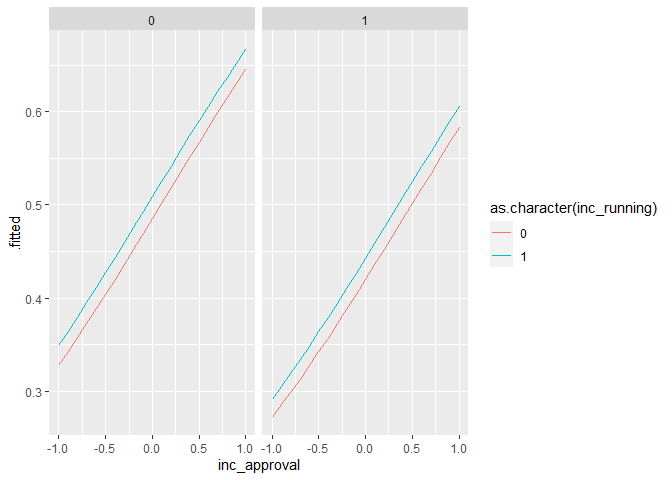
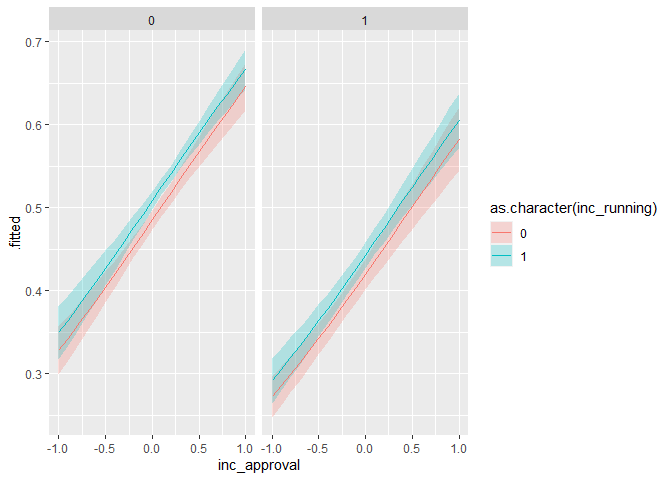
add se to fit

diff --git a/dev/01-abramovitz/abramovitz_exploration.md b/dev/01-abramovitz/abramovitz_exploration.md
@@ -35,13 +35,19 @@ glm(inc_vote ~ inc_approval + inc_running + third_party,
     family = quasibinomial(),
     data = model_data) %>%
   broom::augment(type.predict = "response",
+                 se_fit = TRUE,
                  newdata = crossing(inc_approval = seq(from = -1, to = 1, by = 0.1),
                                     inc_running = 0:1,
                                     third_party = 0:1)) %>%
+  mutate(lower = .fitted - .se.fit,
+         upper = .fitted + .se.fit) %>%
   ggplot(aes(x = inc_approval,
-             y = .fitted,
-             color = as.character(inc_running))) + 
-  geom_line() + 
+             y = .fitted)) + 
+  geom_ribbon(aes(ymin = lower,
+                  ymax = upper,
+                  fill = as.character(inc_running)),
+              alpha = 0.25) + 
+  geom_line(aes(color = as.character(inc_running))) + 
   facet_wrap(~third_party)
 ```
 
@@ -75,16 +81,23 @@ glm(dem ~ inc_party*(inc_approval) + third_party,
                                                        to = max(model_data$inc_approval), 
                                                        by = 0.01),
                                     third_party = 0:1),
-                 type.predict = "response") %>%
+                 type.predict = "response",
+                 se_fit = TRUE) %>%
+  mutate(lower = .fitted - .se.fit,
+         upper = .fitted + .se.fit) %>%
   ggplot(aes(x = inc_approval,
-             y = .fitted,
-             color = inc_party)) + 
-  geom_line() +
+             y = .fitted)) +
+  geom_ribbon(aes(ymin = lower,
+                  ymax = upper,
+                  fill = inc_party),
+              alpha = 0.25) + 
+  geom_line(aes(color = inc_party)) +
   geom_point(data = model_data,
              mapping = aes(x = inc_approval,
                            y = dem,
                            color = inc_party)) + 
   scale_color_brewer(palette = "Set1", direction = -1) +
+  scale_fill_brewer(palette = "Set1", direction = -1) + 
   riekelib::scale_xy_percent() + 
   facet_wrap(~paste0("third_party: ", third_party)) +
   riekelib::theme_rieke() +
@@ -205,6 +218,7 @@ glm(inc_2pv ~ inc_approval + gdp_growth + inc_running,
     family = quasibinomial(),
     data = model_data) %>%
   broom::augment(type.predict = "response",
+                 se_fit = TRUE,
                  newdata = crossing(inc_approval = seq(from = min(model_data$inc_approval),
                                                        to = max(model_data$inc_approval),
                                                        length.out = 30),
@@ -213,11 +227,16 @@ glm(inc_2pv ~ inc_approval + gdp_growth + inc_running,
                                                      length.out = 3),
                                     inc_running = 0:1)) %>%
   mutate(inc_running = paste0("incumbent running: ", inc_running),
-         gdp_growth = paste0("gdp growth: ", scales::label_percent()(gdp_growth))) %>%
+         gdp_growth = paste0("gdp growth: ", scales::label_percent()(gdp_growth)),
+         lower = .fitted - .se.fit,
+         upper = .fitted + .se.fit) %>%
   ggplot(aes(x = inc_approval,
-             y = .fitted,
-             color = inc_running)) + 
-  geom_line() +
+             y = .fitted)) +
+  geom_ribbon(aes(ymin = lower,
+                  ymax = upper,
+                  fill = inc_running),
+              alpha = 0.25) + 
+  geom_line(aes(color = inc_running)) +
   geom_hline(yintercept = 0.5,
              linetype = "dashed",
              alpha = 0.5) +
